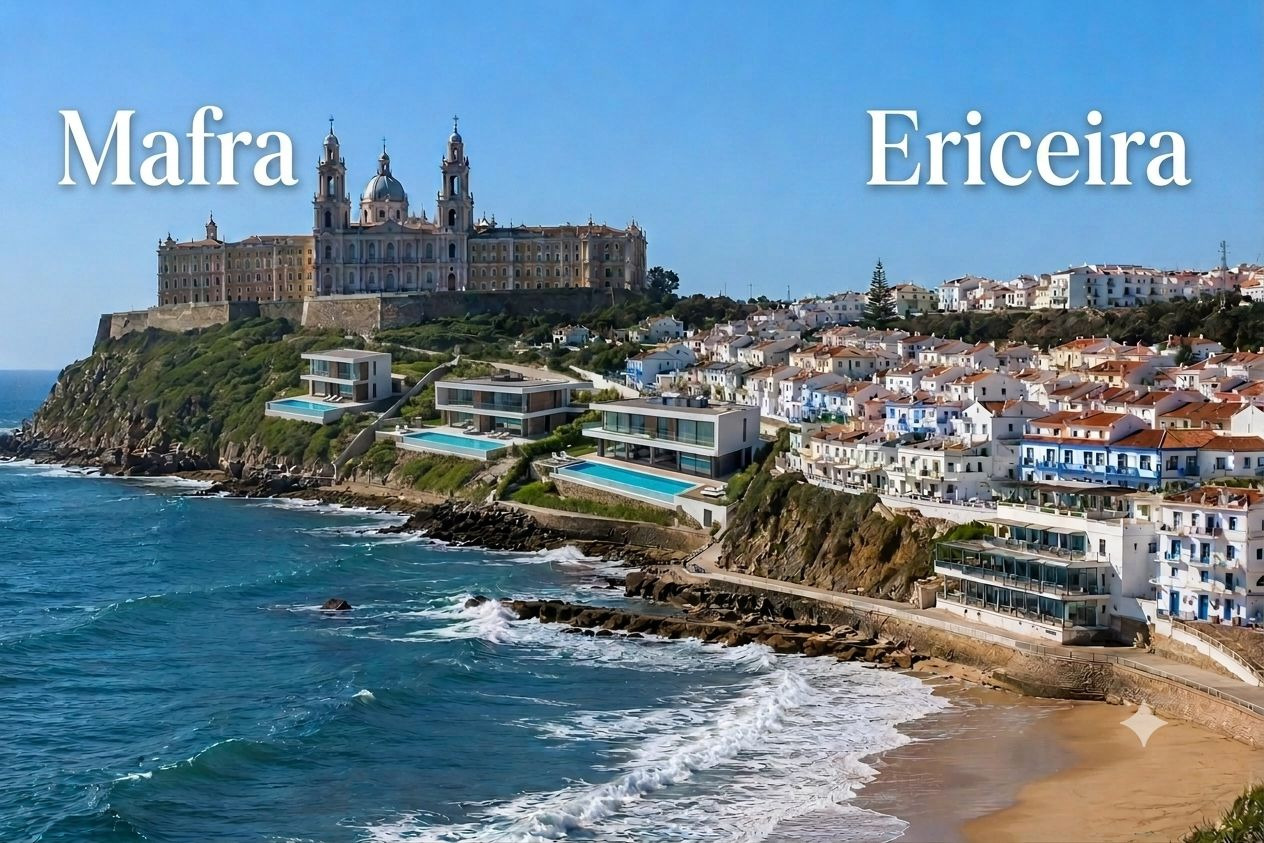
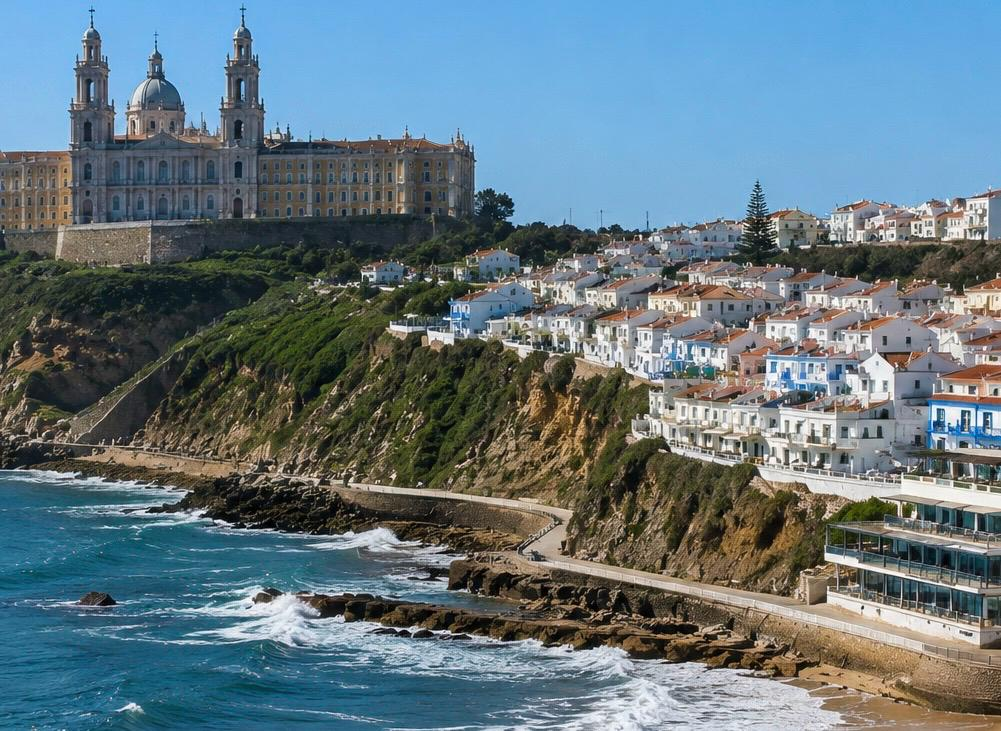
FIX: fix services

diff --git a/src/app/(pages)/budget/page.jsx b/src/app/(pages)/budget/page.jsx
@@ -319,7 +319,7 @@ export default function BudgetPage() {
 
   const handleWhatsApp = () => {
     const message = generateWhatsAppMessage();
-    window.open(`https://wa.me/5547992236761?text=${message}`, "_blank");
+    window.open(`https://wa.me/351932096025?text=${message}`, "_blank");
   };
 
   if (!mounted) return <div className={styles.shell} />;

diff --git a/src/app/components/home/HeroMain.jsx b/src/app/components/home/HeroMain.jsx
@@ -316,7 +316,7 @@ const HeroMain = () => {
         <div className={styles.sceneInner}>
           <p className={`${styles.sceneIndex} ${styles.animChild}`}>01</p>
           <h2 className={`${styles.displayTitle} ${styles.displayTitleRight} ${styles.animChild}`}>
-            A água<br />merece<br /><em>atenção.</em>
+            Atuamos em<br /><em>Mafra</em><br />Ericeira.
           </h2>
           <p className={`${styles.lead} ${styles.leadRight} ${styles.animChild}`}>
             Analisamos, tratamos e equilibramos a água para garantir segurança e qualidade.